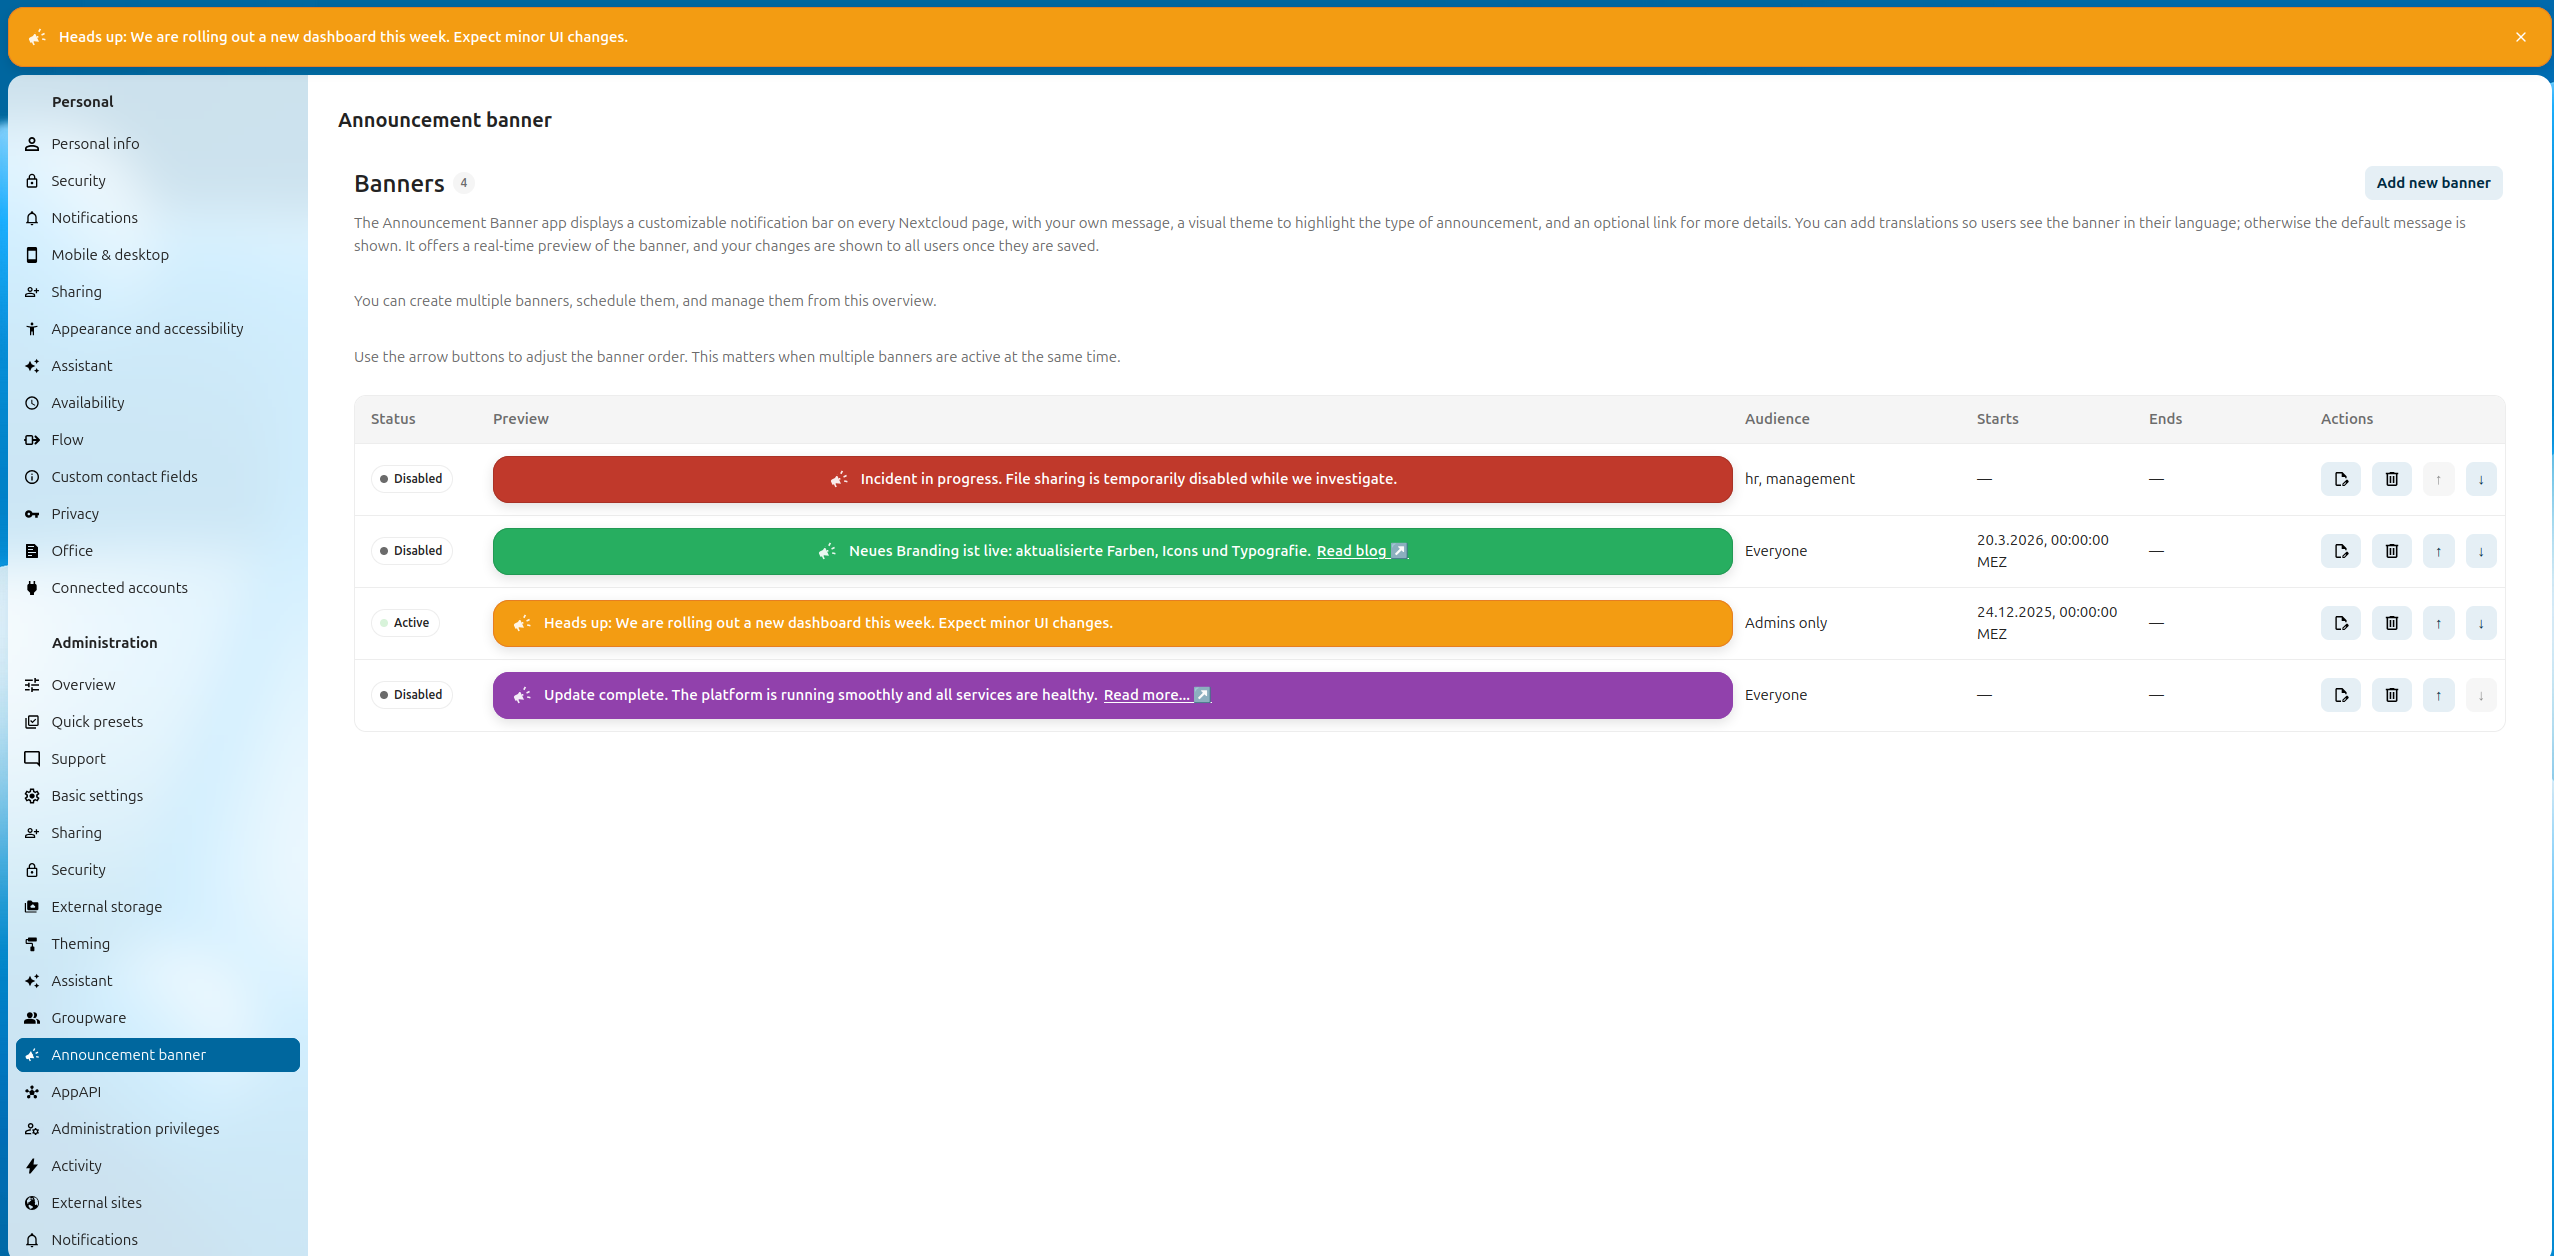
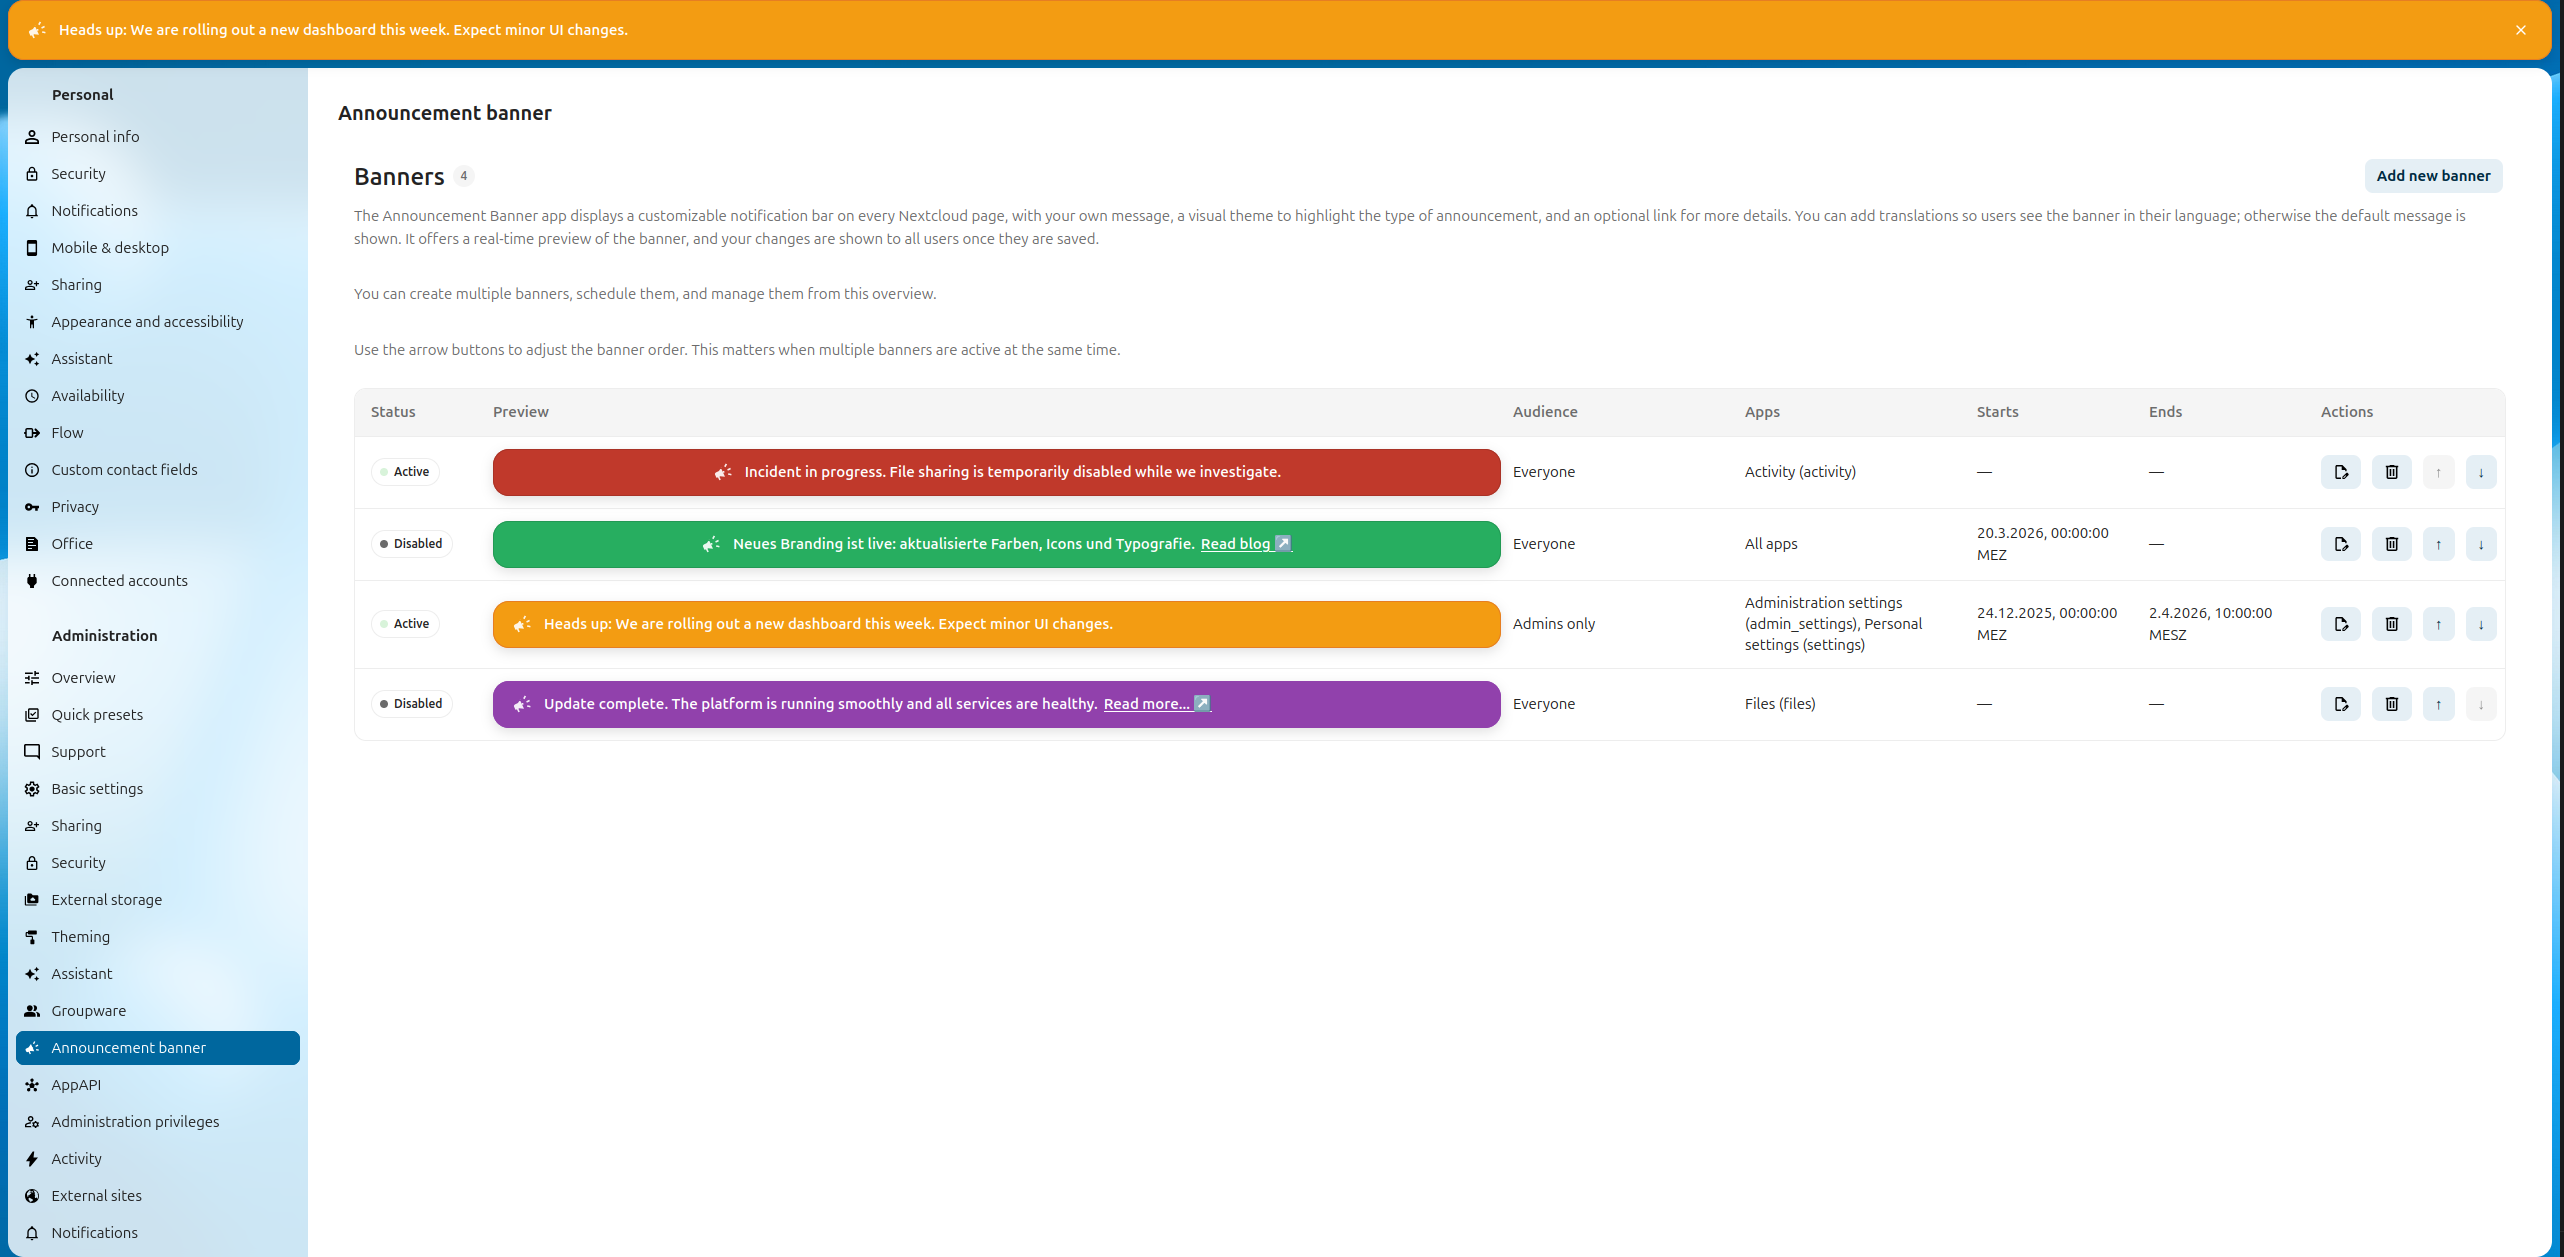
V2.4.0

diff --git a/README.md b/README.md
@@ -1,6 +1,6 @@
 # Announcement Banner App
 
-The Announcement Banner App adds customizable notification bars at the top of every Nextcloud page. Create multiple banners with their own message, color scheme, schedule window, audience, app scope, optional “read more” link, and dismiss behavior. You can also add translations so users see the banner in their language. A live preview and an overview of all banners are available in the admin settings.
+The Announcement Banner App adds customizable notification bars at the top of your Nextcloud pages. Create multiple banners with their own message, color scheme, schedule window, audience, page targeting, optional “read more” link, and dismiss behavior. You can also add translations so users see the banner in their language. A live preview and an overview of all banners are available in the admin settings.
 
 ## Screenshots
 
@@ -43,7 +43,7 @@ The Announcement Banner App adds customizable notification bars at the top of ev
 - Manual banner ordering with up/down controls in the admin overview to define the display order when multiple banners are active.
 - Optional schedule: set a start time, an end time, or both to control when a banner is shown.
 - Audience targeting: show each banner to everyone, admins only, or specific groups.
-- App targeting: limit a banner to specific Nextcloud app IDs such as `files`, `deck`, or `mail`.
+- Page targeting: limit a banner to specific Nextcloud apps and settings pages such as `files`, `deck`, `settings` (personal settings), or `admin_settings` (administration settings).
 - Theme variants: info, success, warning, danger, custom.
 - Optional dismiss button for users.
 - Optional “read more” link with customizable label and URL.
@@ -59,6 +59,10 @@ Create and manage several banners at once. Each banner can be enabled or disable
 ## Audience
 
 Choose who should see each banner. You can publish a banner to everyone, restrict it to admins only, or target specific groups.
+
+## Page Targeting
+
+Choose where each banner should appear. You can leave the page selection empty to show a banner everywhere, or restrict it to selected apps and settings areas such as Files, Deck, Personal settings, or Administration settings.
 
 ## Translations
 
@@ -92,6 +96,6 @@ Install from the Nextcloud App Store: [Announcement Banner](https://apps.nextclo
 - **Read more**: Optional label + URL (shown inline with an arrow icon).
 - **Schedule**: Optional start date, end date, or both. Make sure to enable the banner if you want to schedule it.
 - **Audience**: Everyone, Admins only, or Specific groups.
-- **App IDs**: Optional list of Nextcloud app IDs. Leave empty to show the banner everywhere, or target apps like `files`, `deck`, or `mail`.
+- **Apps**: Optional selection of target pages. Leave empty to show the banner everywhere, or target entries like Files, Deck, Personal settings (`settings`), or Administration settings (`admin_settings`).
 - **Translations**: Optional per-language overrides for message and read-more label; default text is the fallback.
 - Live preview updates immediately; saving publishes to all users.

diff --git a/CHANGELOG.md b/CHANGELOG.md
@@ -2,6 +2,13 @@
 
 All notable changes to this project will be documented in this file.
 
+## 2.4.0
+
+- Add page targeting for banners so they can be shown only on selected apps.
+- Add app and settings page selection in the admin form, including personal settings and administration settings.
+- Show the selected app/page targets in the admin overview for easier management.
+- Update public banner rendering to detect settings pages and apply page-targeted banners there.
+
 ## 2.3.1
 
 - Update screenshots with new features
